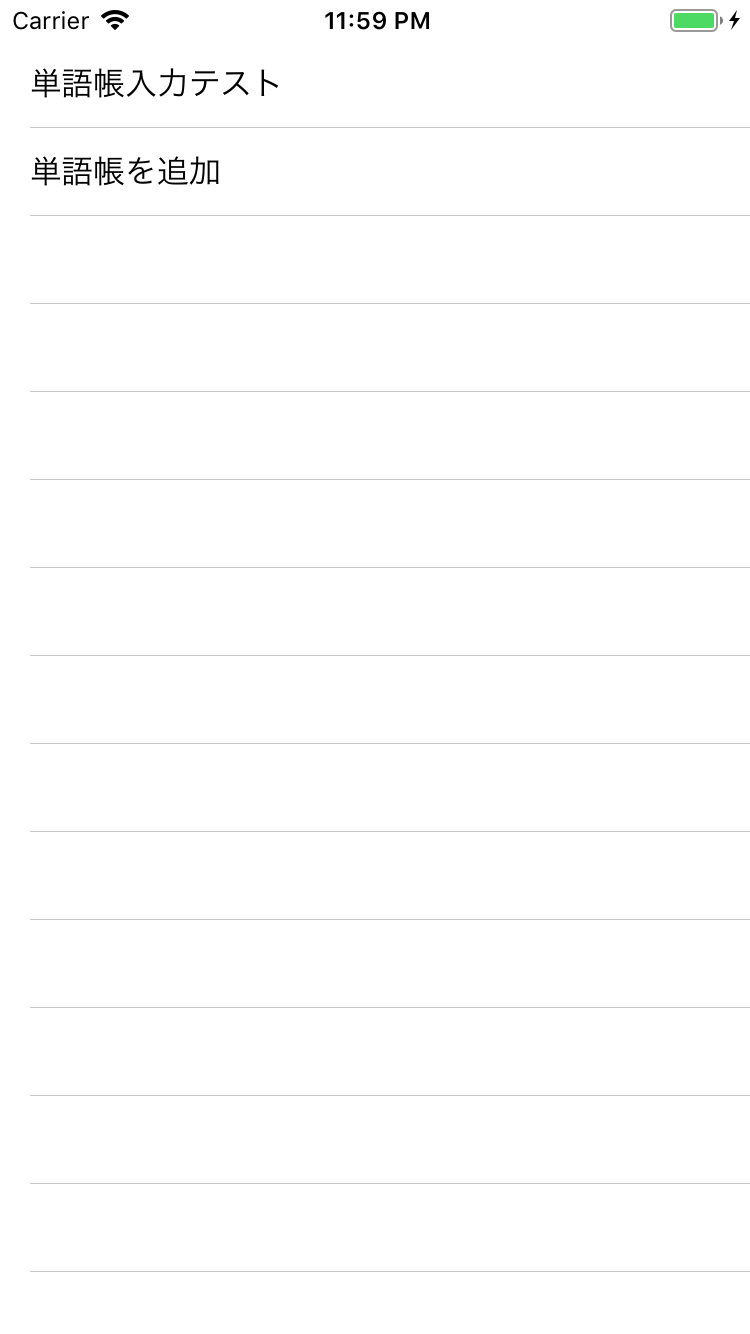
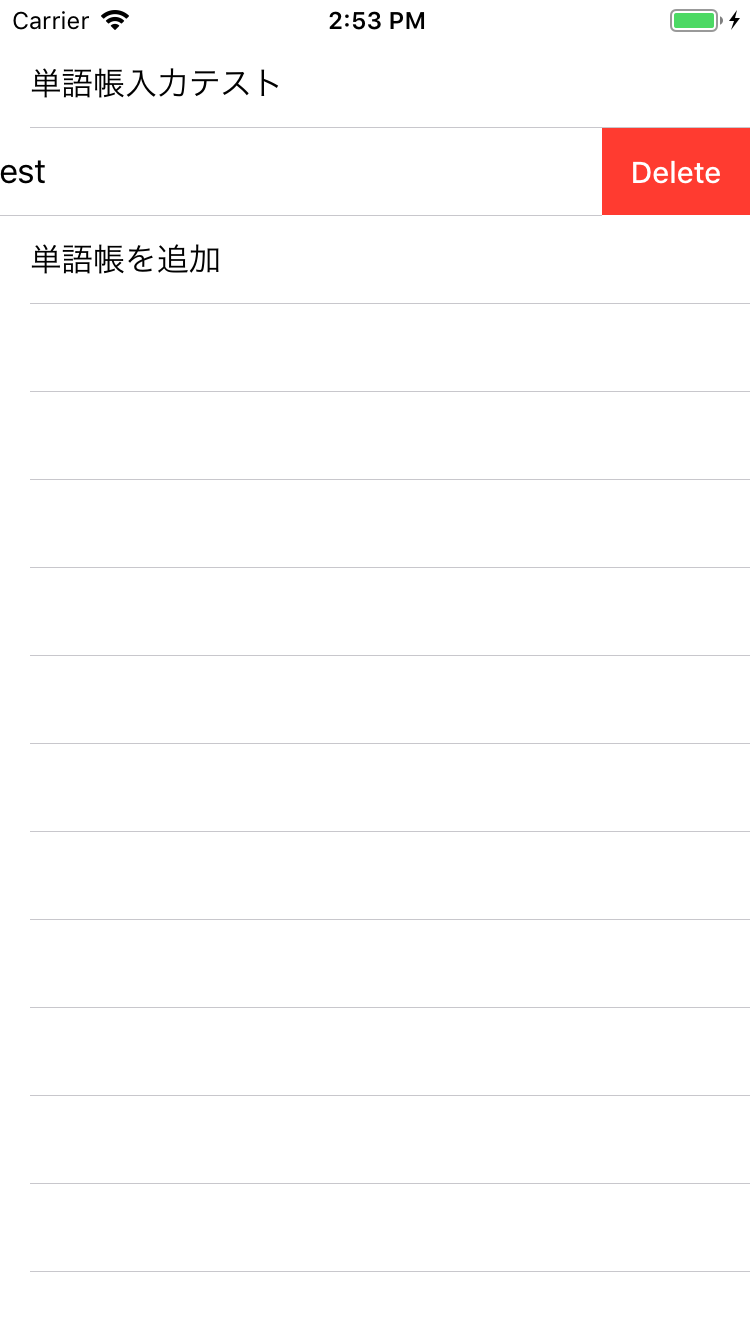
単語帳削除をトップ画面でスワイプすると削除するように変更

diff --git a/EnglishWords/EnglishWords/ViewController.swift b/EnglishWords/EnglishWords/ViewController.swift
@@ -77,5 +77,23 @@ class ViewController: UIViewController, UITableViewDelegate, UITableViewDataSour
             subVC.wordnotebook = wordnotebook!
         }
     }
+    
+    //選択したセルでスワイプすると削除される
+    func tableView(_ tableView: UITableView, commit editingStyle: UITableViewCellEditingStyle, forRowAt indexPath: IndexPath) {
+        if editingStyle == .delete {
+            //選択したセルの単語帳を記録
+            wordnotebook = booknamelist[indexPath.row]
+            
+            booknamelist.remove(at: indexPath.row)
+            tableView.deleteRows(at: [indexPath], with: .fade)
+            
+            //Realmデータベースからも削除
+            let realm = try! Realm()
+            
+            try! realm.write {
+                realm.delete(wordnotebook!)
+            }
+        }
+    }
 }
 
